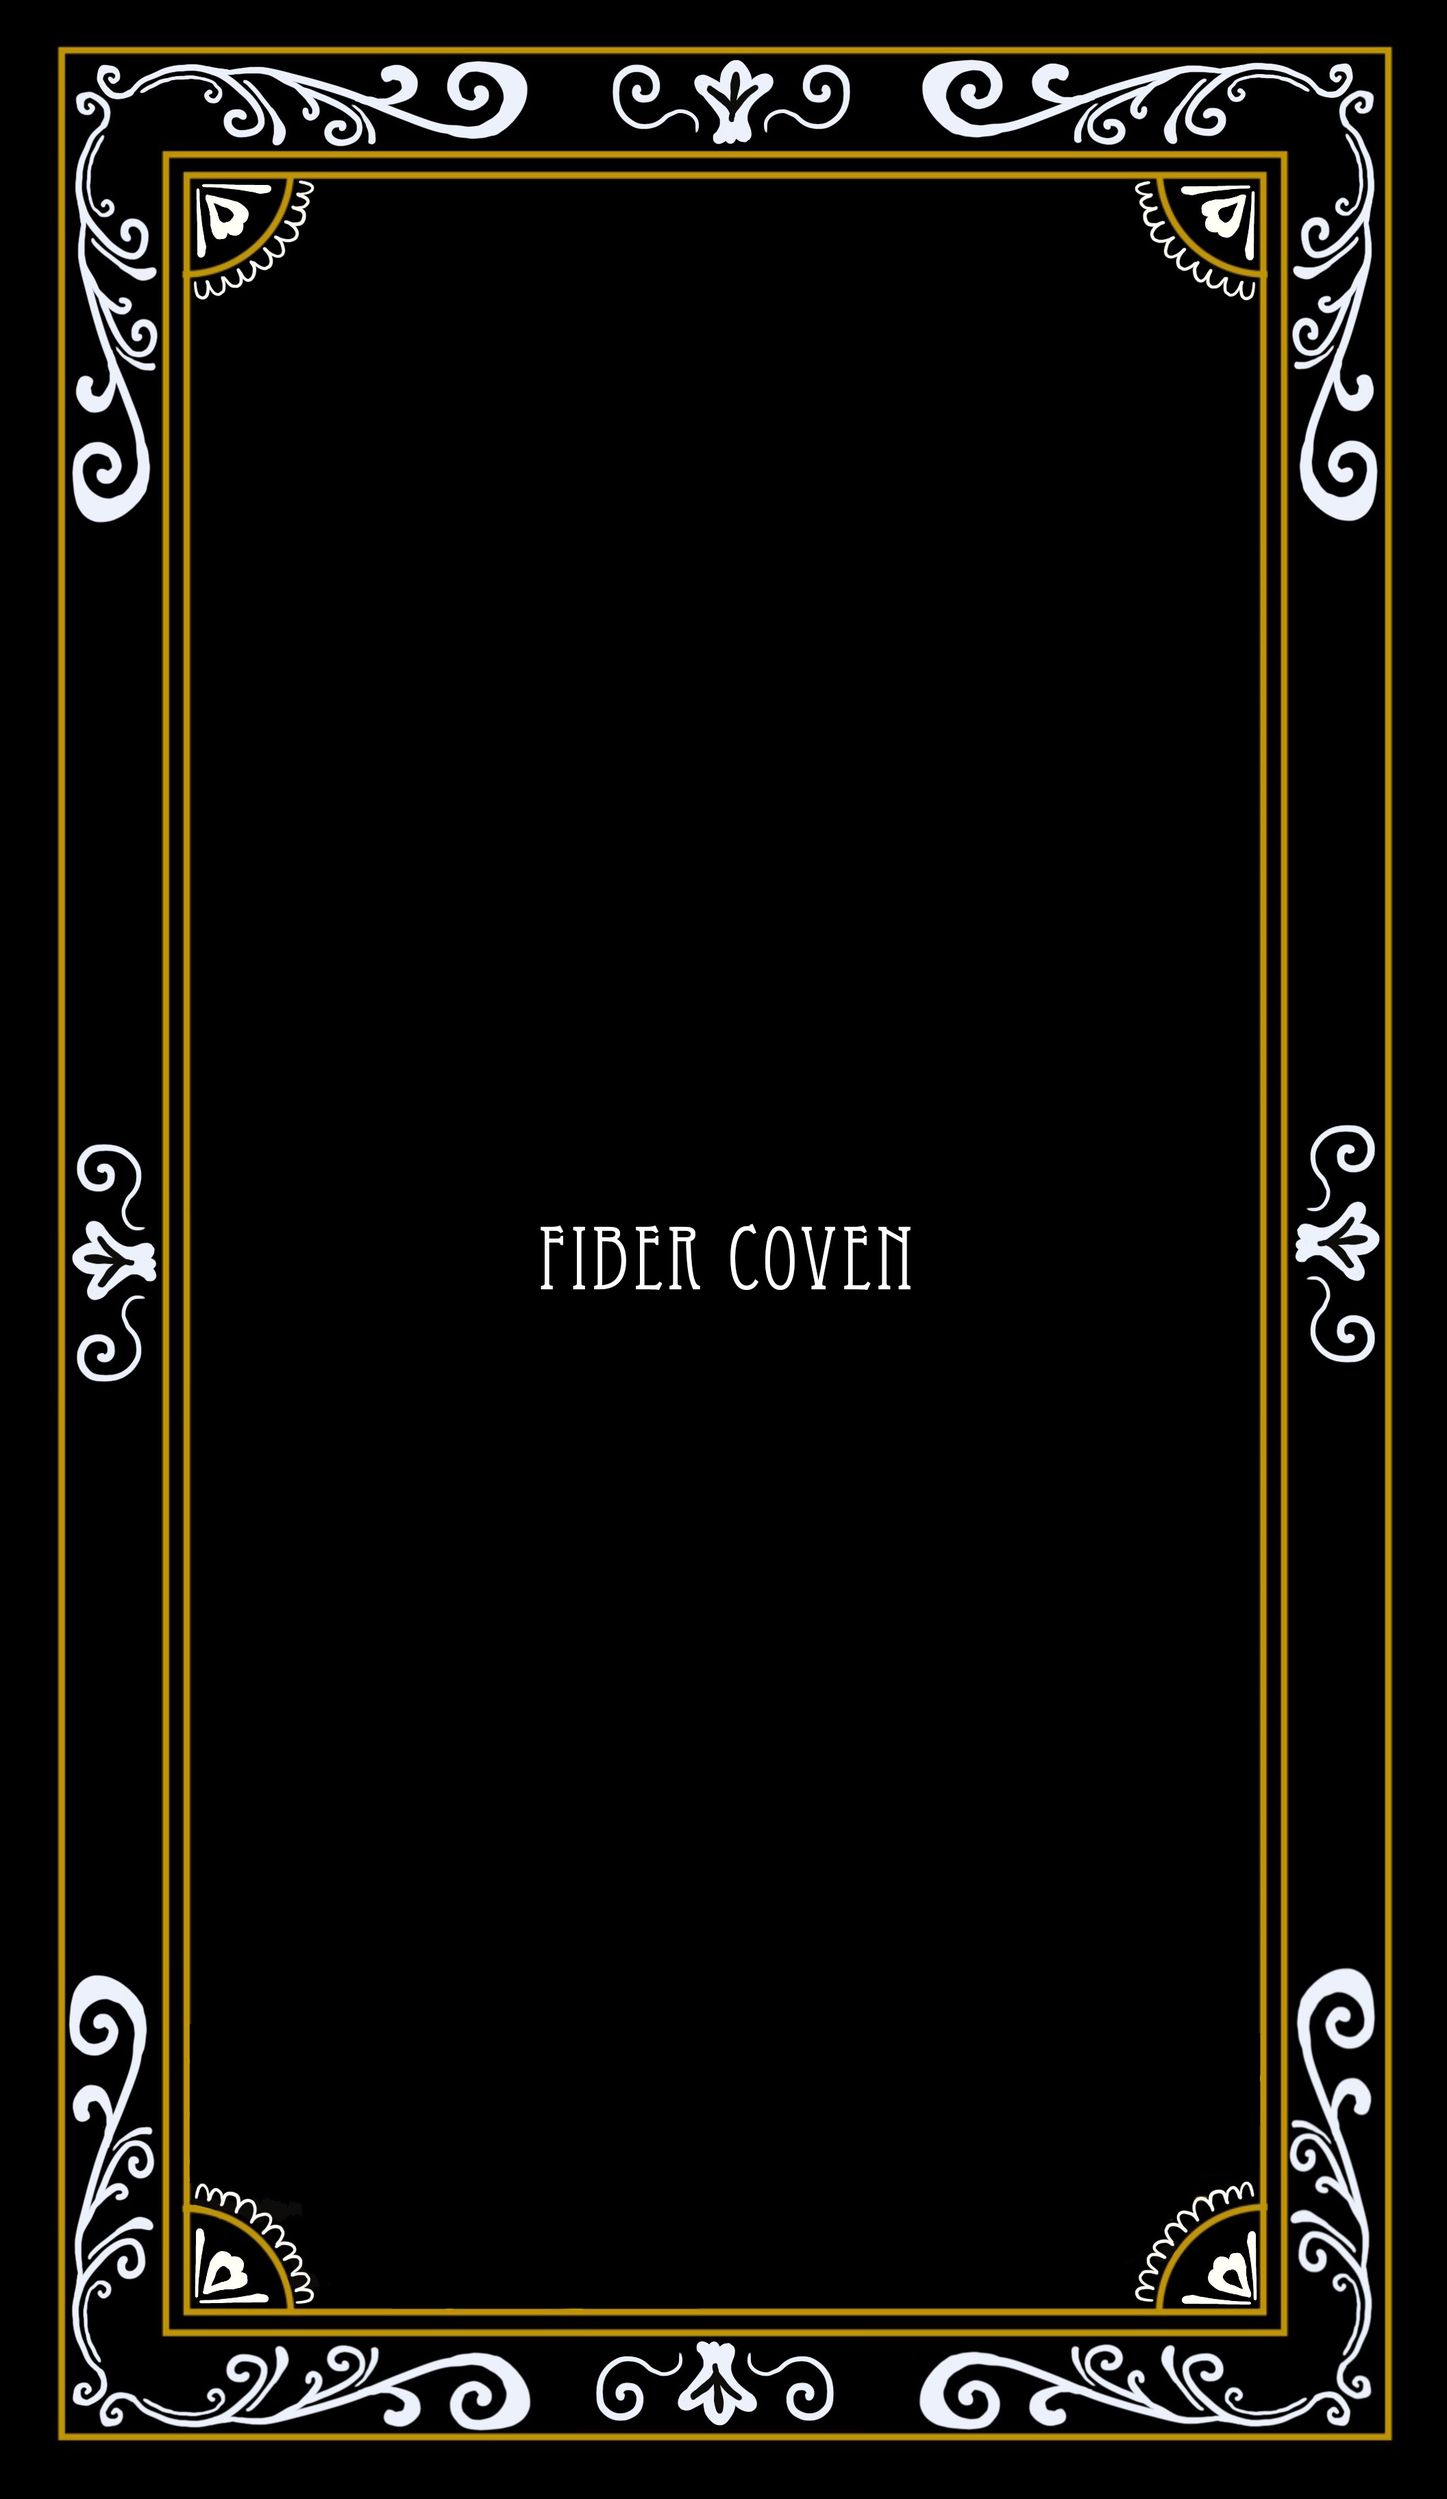
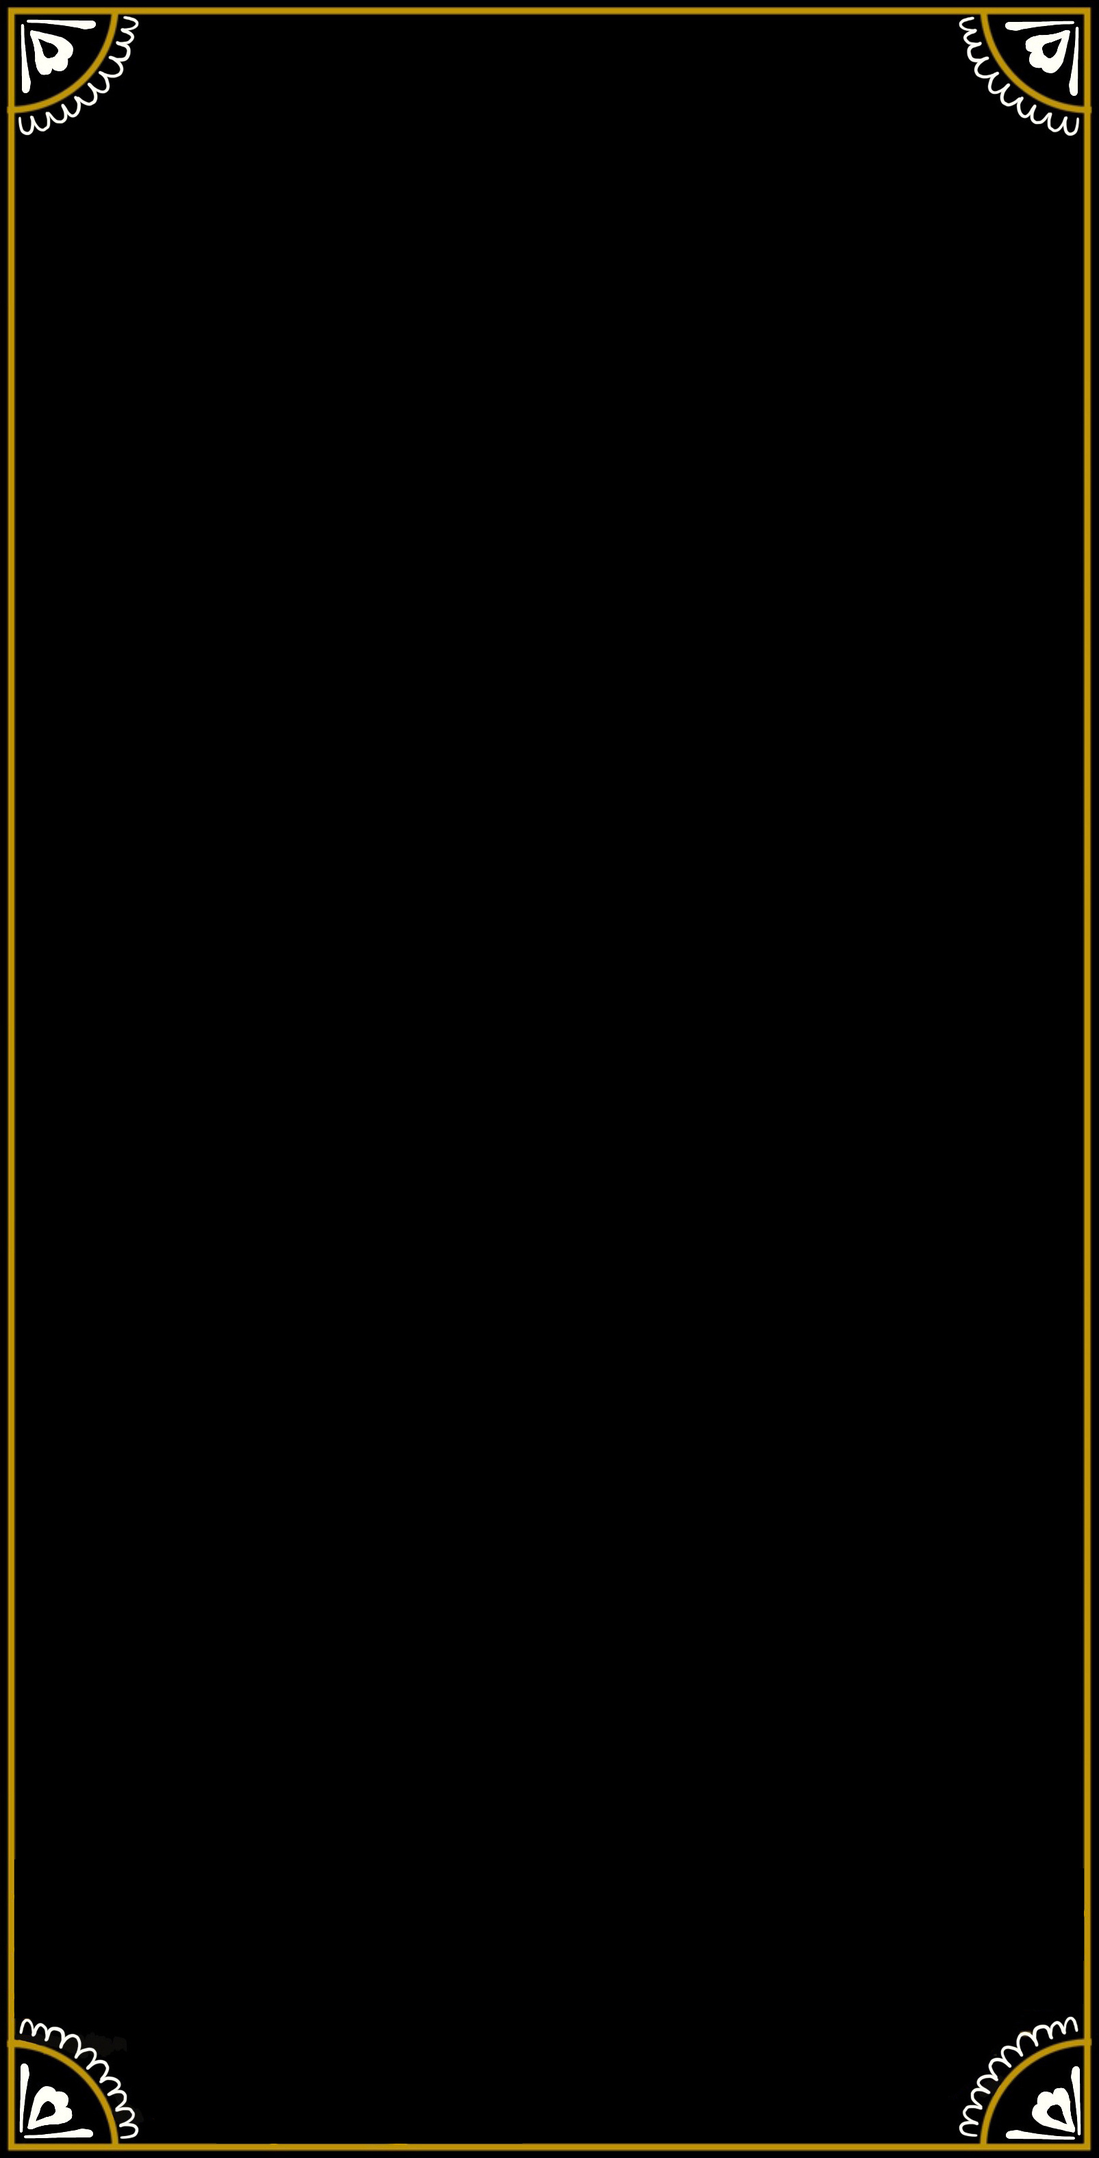
remove card flip animation and refine card graphics

Changed region(s): [[0.0, 0.0, 0.9969, 1.0], [0.3738, 0.4665, 0.6231, 0.5287]]

diff --git a/docs/index.html b/docs/index.html
@@ -5,10 +5,9 @@
         <title>Fiber Coven</title>
         <meta name="viewport" content="width=device-width, initial-scale=1">
         <link rel="stylesheet" href="styles.css">
-        <script src="card-flip.js" defer></script>
     </head>
     
-    <body onload="loadFlip()">
+    <body>
         <div id="wrapper">
             <header>
                 
@@ -34,72 +33,61 @@
             <main>
                 
                 <div class="content-box">
-                    <div class="inner-box" id="card1">
-                        <div class="card-back"><img src="images/tarot-back.jpg" width="100%" style="border-radius: 7%;"></div>
-                        <div class="card-front">
-                            <h1>Fiber Coven</h1>
-                            <section class="bio">
-                                <img src="images/emily-profile.jpg" id="emily">
-                                <p>Emily O’Brien has been knitting since she was 12 years old. Emily went to school for theatre design but 
-                                    ended up putting those design skills into knitwear instead! Emily focuses on creating patterns that are 
-                                    not just beautiful finished objects but also really fun and addicting to knit. She has been featured in 
-                                    Knit Picks Collections, Interweave, I Like Knitting, Knit Now, and has popular self-published patterns. 
-                                    Emily lives in Louisville, KY with her husband Chad and a menagerie of 1 dog, 3 cats, 6 chickens, 1 rabbit, 
-                                    and about 20,000 honeybees. Aside from yarn, Emily loves both kitties and cupcakes.</p>
-                            </section>
-                            <section class="bio">
-                                <img src="images/lauren-profile.jpg" id="lauren">
-                                <p>Lauren has been a knitter and crafter for 20+ years. She went to college for Clinical Nutrition at UC, 
-                                    Davis and then became disillusioned with the medical profession.  Next, she went to culinary school and 
-                                    cooked for several years until she became disillusioned with that profession too.  She is much happier 
-                                    cooking yarn and fiber in her kitchen in her yarn-hovel in the mountains.  Valkyrie Fibers specializes in 
-                                    self striping sock yarn and Lauren’s colorways are inspired by nature and pop culture.  In her free time, 
-                                    Lauren likes yelling in the streets when human rights are infringed upon, (legally) smoking weed, and 
-                                    petting kittens. 
-                                </p>
-                            </section>
-                        </div>
+                    <div class="card-front">
+                        <h1>Fiber Coven</h1>
+                        <section class="bio">
+                            <p>Emily O’Brien has been knitting since she was 12 years old. Emily went to school for theatre design but 
+                                ended up putting those design skills into knitwear instead! Emily focuses on creating patterns that are 
+                                not just beautiful finished objects but also really fun and addicting to knit. She has been featured in 
+                                Knit Picks Collections, Interweave, I Like Knitting, Knit Now, and has popular self-published patterns. 
+                                Emily lives in Louisville, KY with her husband Chad and a menagerie of 1 dog, 3 cats, 6 chickens, 1 rabbit, 
+                                and about 20,000 honeybees. Aside from yarn, Emily loves both kitties and cupcakes.</p>
+                        </section>
+                        <section class="bio">
+                            <img src="images/lauren-profile.jpg" id="lauren">
+                            <p>Lauren has been a knitter and crafter for 20+ years. She went to college for Clinical Nutrition at UC, 
+                                Davis and then became disillusioned with the medical profession.  Next, she went to culinary school and 
+                                cooked for several years until she became disillusioned with that profession too.  She is much happier 
+                                cooking yarn and fiber in her kitchen in her yarn-hovel in the mountains.  Valkyrie Fibers specializes in 
+                                self striping sock yarn and Lauren’s colorways are inspired by nature and pop culture.  In her free time, 
+                                Lauren likes yelling in the streets when human rights are infringed upon, (legally) smoking weed, and 
+                                petting kittens. 
+                            </p>
+                        </section>
                     </div>
                 </div>
                 
                 <div class="content-box">
-                    <div class="inner-box" id="card2">
-                        <div class="card-back"><img src="images/tarot-back.jpg" width="100%" style="border-radius: 7%;"></div>
-                        <div class="card-front">
-                            <h1>Podcast</h1>
-                            <section>
-                                <p>A weekly witchy themed fiber arts podcast! We’re a coven of two yarn witches trying to craft fiber 
-                                    magic through knitting, dyeing, spinning, and whatever we can get our witchy hands on. It’s a long 
-                                    distance coven, so we thought we’d open it up to yarn witches across the globe so we can spread our 
-                                    black magics far and wide. Lauren is the dyer behind Valkyrie Fibers and Emily designs knitting patterns 
-                                    under the name Kitty With A Cupcake. New episodes drop on Tuesdays!</p>
-                            </section>
-                            
-                            <div id="iframe-wrap">
-                                <iframe title="Fiber Coven Podcast" allowtransparency="true" height="250" width="100%" style="border: none; min-width: min(100%, 430px);" scrolling="no" data-name="pb-iframe-player" src="https://www.podbean.com/player-v2/?i=r783h-992dd5-pbblog-playlist&share=1&download=1&rtl=0&fonts=Arial&skin=2&order=episodic&limit=10&filter=all&ss=a713390a017602015775e868a2cf26b0&btn-skin=3&size=315" allowfullscreen=""></iframe>                    <section>
-                            </div>
-                            
-                            <section style="display: none;">
-                                <p>[Spotify, Apple Podcasts, Google Podcasts buttons]</p>
-                            </section>
+                    <div class="card-front">
+                        <h1>Podcast</h1>
+                        <section>
+                            <p>A weekly witchy themed fiber arts podcast! We’re a coven of two yarn witches trying to craft fiber 
+                                magic through knitting, dyeing, spinning, and whatever we can get our witchy hands on. It’s a long 
+                                distance coven, so we thought we’d open it up to yarn witches across the globe so we can spread our 
+                                black magics far and wide. Lauren is the dyer behind Valkyrie Fibers and Emily designs knitting patterns 
+                                under the name Kitty With A Cupcake. New episodes drop on Tuesdays!</p>
+                        </section>
+                        
+                        <div id="iframe-wrap">
+                            <iframe title="Fiber Coven Podcast" allowtransparency="true" height="250" width="100%" style="border: none; min-width: min(100%, 430px);" scrolling="no" data-name="pb-iframe-player" src="https://www.podbean.com/player-v2/?i=r783h-992dd5-pbblog-playlist&share=1&download=1&rtl=0&fonts=Arial&skin=2&order=episodic&limit=10&filter=all&ss=a713390a017602015775e868a2cf26b0&btn-skin=3&size=315" allowfullscreen=""></iframe>                    <section>
                         </div>
+                        
+                        <section style="display: none;">
+                            <p>[Spotify, Apple Podcasts, Google Podcasts buttons]</p>
+                        </section>
                     </div>
                 </div>
                 
                 <div class="content-box" id="news">
-                    <div class="inner-box" id="card3">
-                        <div class="card-back"><img src="images/tarot-back.jpg" width="100%" style="border-radius: 7%;"></div>
-                        <div class="card-front">
-                            <h1>News</h1>
-                            <img src="images/StripesInSpaceMKAL.jpg">
-                            <p>Inspired by fashions from a long time ago in a galaxy far, far away, this modular shawl is 
-                                the perfect accessory for a hyperspace journey. The shape is a take on a triangle shawl but 
-                                uses modular techniques to show off a self striping yarn and make the shape easier to wear. 
-                                Grab a coordinating tonal, solid, or speckle yarn to pair with your self striping yarn and create 
-                                an out of this world shawl. The sha
-                                wl features a clean modern look that would be at home on any starship.
-                            </p>
-                        </div>
+                    <div class="card-front">
+                        <h1>News</h1>
+                        <img src="images/StripesInSpaceMKAL.jpg">
+                        <p>Inspired by fashions from a long time ago in a galaxy far, far away, this modular shawl is 
+                            the perfect accessory for a hyperspace journey. The shape is a take on a triangle shawl but 
+                            uses modular techniques to show off a self striping yarn and make the shape easier to wear. 
+                            Grab a coordinating tonal, solid, or speckle yarn to pair with your self striping yarn and create 
+                            an out of this world shawl. The shawl features a clean modern look that would be at home on any starship.
+                        </p>
                     </div>
                 </div>
                 
@@ -107,11 +95,16 @@
             
             <footer>
                 <div id="subscribe"></div>
-                <p id="copyright">&copy Copyright 2021 - Fiber Coven</p>
+                <p id="copyright"></p>
             </footer>
 
         </div>
 
+        <script>
+            const copyright = document.getElementById("copyright");
+            var year = new Date().getFullYear(); 
+            copyright.innerHTML = `&copy Copyright ${year} - Fiber Coven`
+        </script>
 
     </body>
 

diff --git a/docs/styles.css b/docs/styles.css
@@ -16,9 +16,12 @@ Yellow #cb9404
     margin: 0;
     padding: 0;
     list-style: none;
-    background-color: black;
     color: white;
     font-family: Eccentric, 'Times New Roman', Times, serif;
+}
+
+body {
+    background-color: black;
 }
 
 h1 {
@@ -56,7 +59,7 @@ nav a, #social-media a {
 }
 
 nav a {
-    transition: border-bottom .1s;
+    transition: border-bottom .3s;
 }
 
 nav a:hover {
@@ -82,13 +85,13 @@ main {
 .content-box {
     flex-grow: 1;
     flex-direction: column;
-    text-align: left;
-    display: block;
     width: 96%;
-    padding: 1em;
-    margin: 5px 10px;
+    margin: 5px 15px;
     flex-basis: 320px;
     text-align: center;
+    border: 3px solid #cb9404;
+    border-radius: 20px;
+    padding: 8px;
 }
 
 .content-box h1 {
@@ -123,7 +126,7 @@ img {
 
 footer {
     text-align: center;
-    padding-bottom: 20px;
+    padding: 20px;
 }
 
 iframe {
@@ -141,31 +144,20 @@ iframe {
     margin-bottom: 2em;
 }
 
-/* card flip animations */
-
-#card1, #card2, #card3 {
-    position: relative;
-    perspective: 1000px;
-    transition: transform 1.5s;
-    transform-style: preserve-3d;
-}
-
 .card-front {
-    -webkit-transform: rotateY(180deg);
-    transform: rotateY(180deg);
-    z-index: 100;
-}
-
-.card-back {
-    position: absolute;
-}
-
-.card-front, .card-back {
-    -webkit-backface-visibility: hidden;
-    backface-visibility: hidden;
-    display: block;
-    width: 100%;
     height: 100%;
+    padding: 20px 20px 100px;
+    background-image: url("images/tarot-back.jpg");
+    background-size: 100% 100%;
+    background-repeat: no-repeat;
+}
+
+.sizer {
+    width: 100%;
+    position: absolute;
+    top: 0;
+    left: 0;
+    z-index: -1;
 }
 
 
@@ -211,19 +203,14 @@ iframe {
 
     .content-box {
         flex-direction: row;
-        flex: 1;
-        vertical-align: top;
         width: 30%;
-        border-radius: 6%;
-        padding: 20px 20px 40px;
-        margin: 5px;
         flex-basis: 400px;
         font-size: 1.2em;
     }
 
     .bio {
         display: unset;
-        text-align: justify;
+        text-align: left;
     }
     
     .bio img {
@@ -243,15 +230,6 @@ iframe {
 
     .bio p:last-child, .bio img:last-child {
         margin-top: 40px;
-    }
-
-    /* card flip animations */
-
-    .card-front, .card-back {
-        -webkit-backface-visibility: hidden;
-        backface-visibility: hidden;
-        width: 100%;
-        height: 100%;
     }
 
 }
